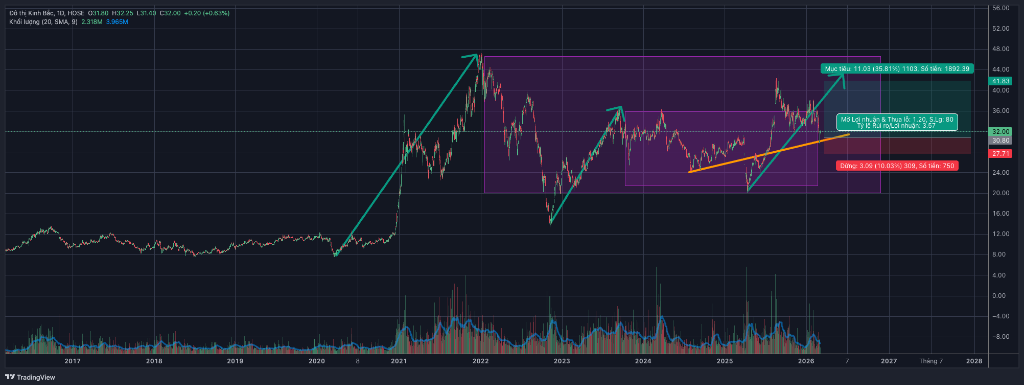
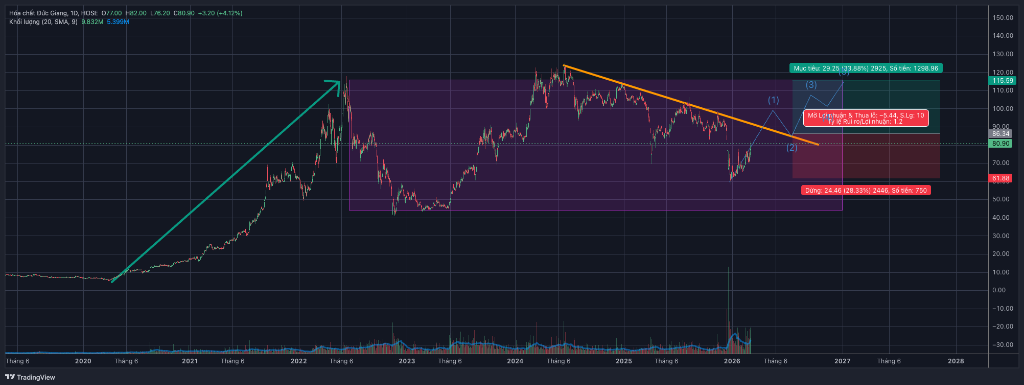
fix: correct DGC trading plan data based on user chart

diff --git a/insert_dgc_trading_plan.js b/insert_dgc_trading_plan.js
@@ -6,23 +6,23 @@ async function go() {
   const plan = {
     ticker: 'DGC',
     company_name: 'CTCP Tập đoàn HC Đức Giang',
-    strategy_name: 'Breakout Nền tảng lớn - Trend Following',
+    strategy_name: 'Giao dịch sóng Elliott - Bắt đáy Sóng 2',
     timeframe: 'Trung - Dài hạn',
-    entry_zone: '129.50 - 132.50',
-    stop_loss: '114.70 (-12.57%)',
-    take_profit: '173.90 (+32.55%)',
-    risk_reward: '1:2.58',
-    max_position_pct: 15,
-    indicators: ['Price Action', 'Volume Analysis', 'Support/Resistance', 'Trendline'],
-    entry_criteria: 'Cổ phiếu bứt thoạt cản chéo kèm dòng tiền lớn xác nhận. Giải ngân mua gom quanh mốc bùng nổ 131.',
-    exit_criteria: 'Cắt lỗ khi giá gãy 114.70 (hỗ trợ cứng vùng đáy cũ). Chốt lời khi giá đạt target đo lường của nền giá quanh 173.90.',
-    analyst_note: 'Hưởng lợi từ chu kỳ công nghệ và nhu cầu chất bán dẫn toàn cầu. Kỹ thuật DGC đang nén chặt và Breakout rất đẹp. R:R 2.58 cho một nhịp cầm trung hạn là mức sinh lời tuyệt vời để đánh cược.',
-    sector: 'Hóa chất - Phân bón',
-    risk_level: 'Trung Bình',
-    conviction_level: 'Rất Cao',
-    catalyst_note: 'Dự án Tổ hợp Hóa chất Nghi Sơn, Giá phốt pho phục hồi',
-    expected_holding_days: 120,
-    capital_allocation_pct: 15,
+    entry_zone: '80.90 - 86.50',
+    stop_loss: '61.88 (-28.33%)',
+    take_profit: '115.59 (+33.88%)',
+    risk_reward: '1:1.20',
+    max_position_pct: 10,
+    indicators: ['Elliott Wave', 'Trendline', 'Price Action'],
+    entry_criteria: 'Giá bứt phá cản chéo và đang trong nhịp test lại tạo Sóng (2). Mua gom quanh 80.90 - 86.50 đón Sóng (3).',
+    exit_criteria: 'Cắt lỗ khi thủng 61.88 (phá vỡ cấu trúc chân sóng 1). Chốt lời khi giá đạt target đo lường của Sóng (3) quanh 115.x.',
+    analyst_note: 'Chart vẽ ra kịch bản sóng Elliott kinh điển. Tuy nhiên Stoploss dài (-28%) nên cần quản trị rủi ro khắt khe, phân bổ tỷ trọng nhỏ. Đổi lại, biên lợi nhuận Sóng 3 cực kỳ hấp dẫn (lên đỉnh cũ 115).',
+    sector: 'Hóa chất',
+    risk_level: 'Cao',
+    conviction_level: 'Trung Bình',
+    catalyst_note: 'Dự án Nghi Sơn, giá Hóa chất hồi phục',
+    expected_holding_days: 180,
+    capital_allocation_pct: 10,
     status: 'active',
     chart_image_url: '/charts/dgc.png'
   };
